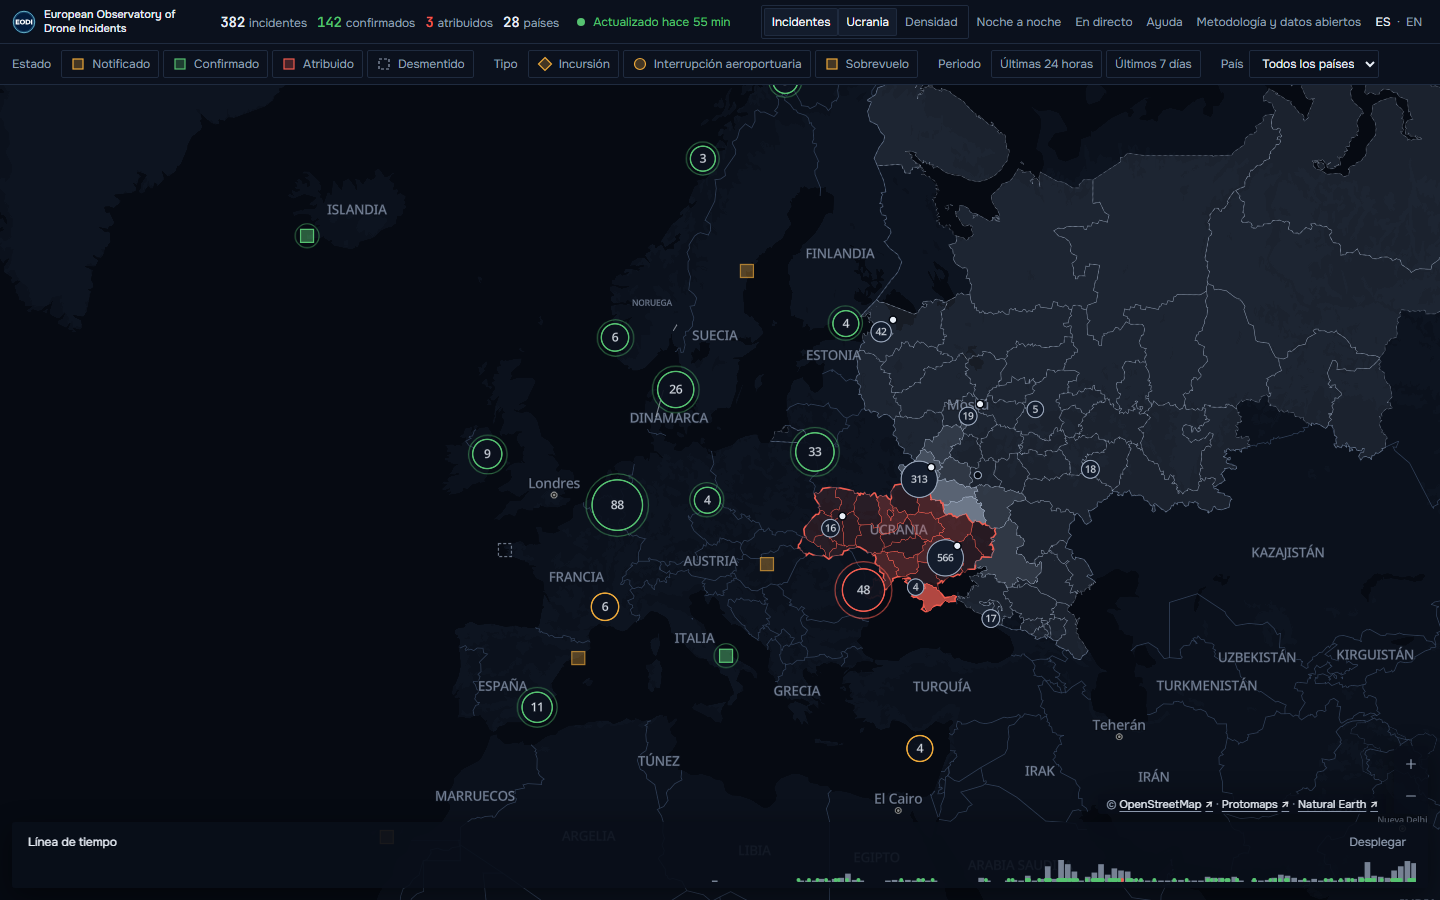
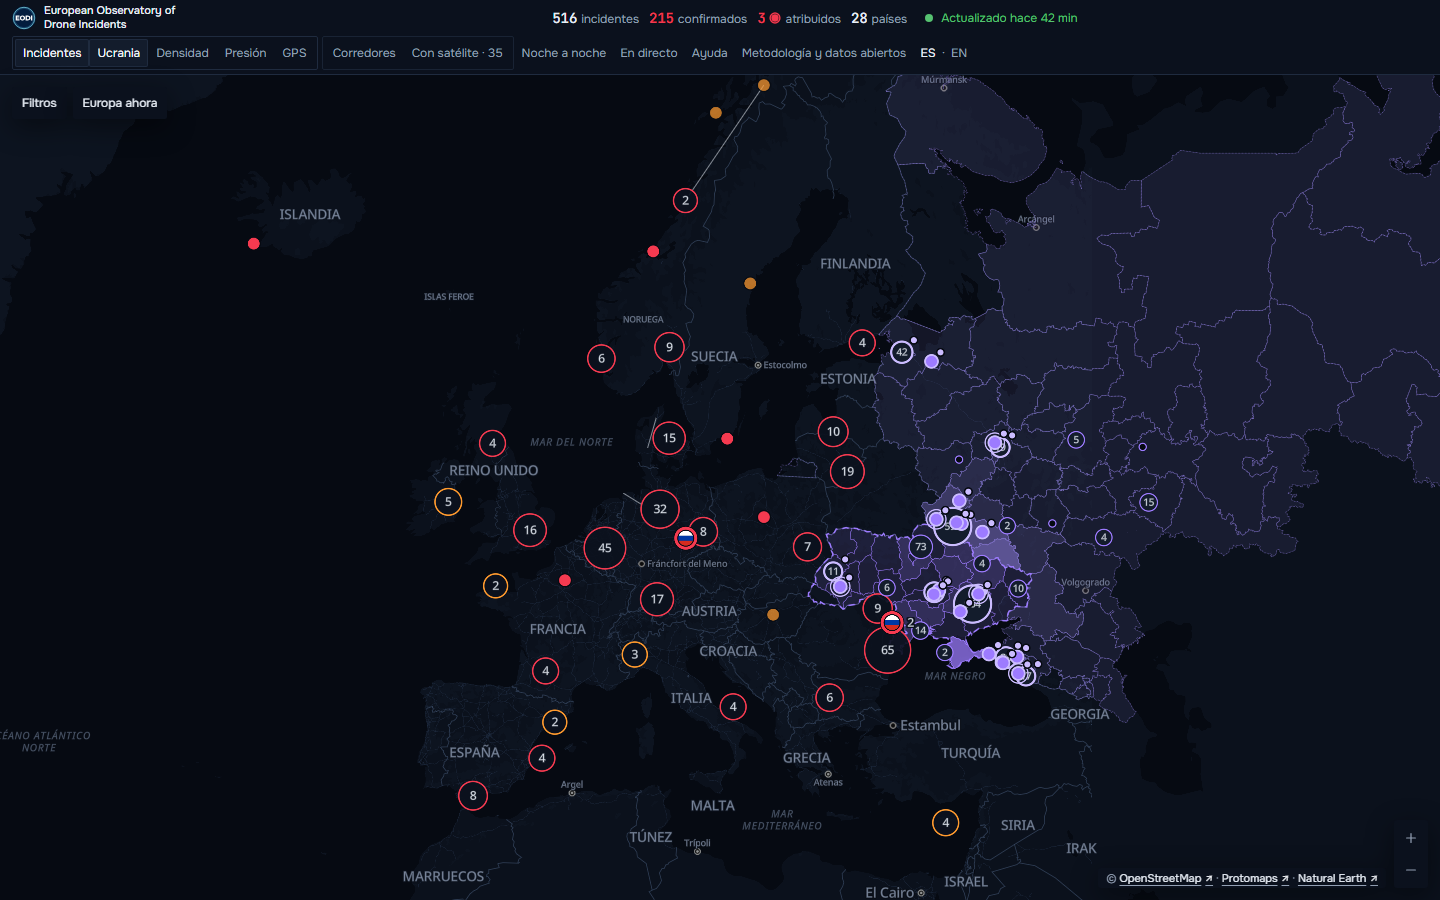
Informe final de guerra por satélite (#110)
Cierra docs/informe_guerra_satelite.md con lo medido el 4 de octubre: el servidor publica las
mismas 7 parejas con cambio que el ensayo, «Con satélite» tiene 36 puntos en producción (7 antes
y después, 18 focos, 3 apagones, 14 ciudades a oscuras), el consumo de las tres unidades con sus
topes nuevos, la comprobación en producción en escritorio y 390×844 y sus capturas. Las capturas
antiguas de la capa de guerra se rehacen en violeta y con las subcapas apagadas.

diff --git a/docs/informe_guerra_satelite.md b/docs/informe_guerra_satelite.md
@@ -107,6 +107,8 @@ imágenes iguales. Ahora una pareja solo se publica si en ella se ve el cambio:
 
 **Las 33 parejas.** Ensayo con el código final sobre los 33 objetivos (967 MB leídos). «Mancha principal» es la medida con la primera imagen posterior despejada; «Escenas revisadas», cuántas imágenes posteriores despejadas se midieron dentro de los 15 días. Pasan **7**: las cuatro en las que se veía el daño a simple vista con la primera imagen (00068, 02593, 02600, 03428) y tres en las que lo enseña una imagen posterior (02693, el 2 de junio; 03153, el 26 de marzo; 03412, el 18 de agosto, reencuadrada a 1,8 km). 25 quedan sin cambio y se retiran del almacén; 03486 sigue buscando hasta que se cierre su plazo.
 
+**En el servidor.** Las dos ejecuciones del 4 de octubre con este código (11:44 y 13:44 UTC) dan lo mismo que el ensayo: **7 parejas publicadas** (EODI-IG-2025-00068, 2025-02593, 2025-02600, 2025-02693, 2026-03153, 2026-03412 y 2026-03428), 28 sin cambio (las 25 de la tabla y tres objetivos nuevos, EODI-IG-2025-03155, 2025-03189 y 2026-04117) y 03486 buscando; 33 imágenes retiradas del almacén. Cada una de las siete, abierta en producción, enseña el cambio dentro del contorno: humo y quemado en Brahlov, el parque de tanques de Tuapsé, las quemaduras de Ivano-Frankivsk, Zёrnovo y Zelenograd, la mancha oscura de Pavlogrado y la franja quemada entre las pistas de Saki (reencuadrada a 1,8 km).
+
 | Impacto | Lugar | Primera imagen después | Mancha principal (ha) con ella | Daño visible a ojo | Escenas revisadas | Resultado |
 | --- | --- | --- | --- | --- | --- | --- |
 | EODI-IG-2025-00036 | Нікополь | 2025-04-20 | 0,32 | no | 9 | sin cambio |
@@ -318,6 +320,10 @@ emplazamientos del año y 11 de confianza baja; 225 publicados, 3 de ellos coinc
 impacto declarado. 10,8 kB, 2,3 s y 251 MB (la primera del día, con el resumen anual de
 emplazamientos, 9 s y 377 MB).
 
+Con solo los coincidentes (4 de octubre, 11:42 UTC): ninguno de los focos del día coincide
+con un impacto; el fichero ocupa 364 bytes. Los 18 impactos con foco de «Con satélite»
+vienen del cruce histórico.
+
 ## 5. Corredores de ataque
 
 [`web/src/datos/guerraSatelite.ts`](../web/src/datos/guerraSatelite.ts). Se calculan en la web
@@ -372,6 +378,7 @@ su realce y pulsando junto a él:
 | Escritorio: clic a unos 6 px del arco | 10 fichas de corredor y 12 listas de arcos superpuestos de 23 arcos localizados |
 | Escritorio: clic lejos de los arcos | ficha de la región |
 | Móvil 390×844, toque sobre el arco | 10 fichas de corredor y 9 listas de 23 arcos |
+| Producción, 360×800, 390×844 y 412×915, diez toques sobre arcos con Ucrania acercada | 10 de 10 fichas de corredor en los tres |
 
 A la escala de toda Europa, en un teléfono, los arcos que salen de la misma zona se solapan:
 ahí se abre la lista o el más cercano al dedo, que es lo que pide la regla.
@@ -409,11 +416,38 @@ recogida horaria, que ya tiene la base abierta, deja cada hora los objetivos en
 `datos/satelite/objetivos.json` (los impactos públicos con foco detectado o en una instalación,
 con su recorte y sus fechas) y `eodi-satelite` solo lee ese fichero.
 
-<!-- CON SATELITE -->
+**En producción** (4 de octubre, 14:15 UTC): «Con satélite · 36», 36 puntos distintos:
+
+| Tipo | Puntos |
+| --- | --- |
+| Antes y después con cambio | 7 |
+| Foco de calor que coincide con un impacto | 18 (6 de ellos también con antes y después) |
+| Apagón | 3: Odesa (13/12/2025), Kremenchuk (15/10/2025) y Rivne (17/08/2025; su ficha da también el del 02/12/2024, ataque EODI-UA-2024-0227) |
+| Ciudad a oscuras | 14 |
+
+Fichas abiertas desde la lista: **EODI-IG-2026-03428** (Tuapsé: cortinilla y foco arriba),
+**EODI-IG-2026-03412** (Saki: cortinilla) y **EODI-IG-2026-03427** (Krasnodar: solo el foco, su
+pareja no pasa).
 
 ## 7. Servidor
 
-<!-- SERVIDOR -->
+Tres unidades con su temporizador, su cerrojo y su tope de 1 GB de memoria, en prioridad baja
+(nice 15, E/S en reposo), fuera de los minutos 15 a 40 de la recogida horaria; ninguna toma el
+cerrojo de la recogida ni toca el clon. Consumo medido el 4 de octubre de 2026:
+
+| Unidad | Cuándo | Tope de tiempo | Medido |
+| --- | --- | --- | --- |
+| `eodi-satelite` | 06:43 y 18:43 UTC | no empieza un impacto nuevo pasados 26 minutos | 31 min, 60 MB de memoria, 629 MB leídos en 1777 peticiones (36 objetivos, la ejecución de las 11:44 con el código del cambio visible) |
+| `eodi-luces` | minuto 41 de cada hora | no empieza una noche nueva pasados 22 minutos | 24 min, 474 MB, unos 7,3 GB leídos (20 noches del histórico, 704 pendientes); la anterior, con 29 minutos, pasaba de los 32 minutos de la unidad una hora sí y otra no |
+| `eodi-focos-vivo` | minuto 42 de cada hora | — | 2,4 s y 235 MB; publica 364 bytes |
+
+- **Ajustes de hoy.** La luz nocturna pasa de 29 a 22 minutos (#103) y la búsqueda de imágenes
+  de 30 a 26 (#105): tras su último elemento quedan las ciudades con alumbrado reducido y la
+  subida, o el índice y las imágenes, y las dos terminan antes del minuto 12. Un test comprueba
+  los dos minutos de fin.
+- **Histórico de la luz nocturna.** Unas 20 a 28 noches por hora; con 704 pendientes, termina en
+  unas 30 horas y después solo mide las noches nuevas.
+- **Disco.** 11 GB usados de 75 GB.
 
 ## 8. Web
 
@@ -430,7 +464,8 @@ con su recorte y sus fechas) y `eodi-satelite` solo lee ese fichero.
   24 h»; aun así, `?satelite=luz` y `?satelite=focos` abren «Con satélite» con el filtro de apagones
   y ciudades a oscuras o el de focos. Abrir algo de una subcapa (un corredor, un apagón, una
   ciudad a oscuras) desde una lista o una ficha la enciende, y la línea de focos de «Europa ahora»
-  abre «Con satélite» filtrado por focos.
+  abre «Con satélite» filtrado por focos, sin cambiar el periodo. El enlace se lee de la dirección
+  del navegador al cargar, antes de que la web reescriba la dirección con sus capas (#103).
 - **Las demás capas.** Revisadas Incidentes, Densidad, Presión, GPS y los cierres en directo.
   Encendía algo sola **Presión**: con el periodo en «Todo», al encenderla cambiaba el periodo a los
   últimos 30 días (de #87). Ya no lo hace: la presión se enciende y el periodo sigue el que había.
@@ -441,7 +476,7 @@ con su recorte y sus fechas) y `eodi-satelite` solo lee ese fichero.
 - Metodología (ES y EN): apartado «Guerra por satélite» y las atribuciones de Copernicus
   Sentinel y de NOAA. Ayuda del mapa: las tres marcas nuevas.
 - Comprobado en escritorio y en 360×800, 390×844 y 412×915, en local, en la vista previa del
-  PR y en producción (apartado 9).
+  PR y en producción (apartado 10).
 
 ## 9. Color de la capa de guerra
 
@@ -481,4 +516,47 @@ familia a ΔE 30 o más de los tres estados, el principal a ΔE 75 o más del ro
 deuteranopía y protanopía, contraste 4,5:1 sobre el fondo, y que ninguna capa de la guerra use un
 color de estado.
 
-<!-- PRODUCCION -->
+## 10. Comprobación en producción
+
+4 de octubre de 2026, droneobservatory.eu con #103 y #105, en escritorio (1440×900) y en
+390×844, con un script de Playwright en un navegador real:
+
+| Comprobación | Escritorio | 390×844 |
+| --- | --- | --- |
+| Con Ucrania, solo dos botones de guerra («Corredores» y «Con satélite · 36»), los dos apagados; ni «Focos 24 h» ni «Luz nocturna» | sí | sí |
+| Cada subcapa se enciende y se apaga con su botón | sí | sí |
+| Apagar y encender Ucrania con las dos encendidas: vuelven apagadas | sí | sí |
+| `?guerra=corredores`: Ucrania y Corredores encendidos | sí | sí |
+| `?guerra=corredores,satelite&satelite=foco`, `?satelite=luz`, `?satelite=focos24h`: «Con satélite» con su filtro | sí | sí |
+| Leyenda de los cuatro tipos y filtro con su número (7, 18, 3, 14) | sí | sí |
+| Las 7 fichas con cortinilla: dos imágenes cargadas, contorno y «Zona con cambios» | 7 de 7 | 7 de 7 |
+| Las 18 fichas con foco: foco arriba; sin pareja, sin cortinilla (03427, 00036, 02759 entre ellas) | 18 de 18 | 18 de 18 |
+| Apagones (Odesa, Kremenchuk, Rivne) y dos ciudades a oscuras (Mykolaiv, Sumy): luz arriba | 5 de 5 | 5 de 5 |
+| «Europa ahora» → focos: «Con satélite» filtrado por focos, 18 filas | sí | sí |
+| Corredores: diez toques en 360, 390 y 412 | — | 10 de 10 |
+| Errores de la página | ninguno | ninguno |
+
+### Capturas
+
+En [`capturas/`](capturas/), cada una en `-escritorio.png` y `-390x844.png`:
+
+- Subcapas: `subcapas-inicial` (Ucrania encendida, subcapas apagadas), `subcapas-corredores`,
+  `subcapas-satelite`, `subcapas-satelite-lista` y `subcapas-enlace-corredores`.
+- Cortinilla con su contorno: `satelite-cortinilla-<impacto>` de las siete parejas, y
+  `satelite-filtro-antes-despues` (la lista filtrada).
+- Fichas sin pareja publicada: `satelite-sin-pareja-EODI-IG-2026-03427`, `-2025-00036` y
+  `-2025-02759` (solo el foco).
+- «Con satélite»: `satelite-foco-EODI-IG-2026-03428`, `satelite-apagon-odesa`,
+  `satelite-apagon-rivne`, `satelite-ciudad-a-oscuras-mykolaiv` y `satelite-europa-ahora-focos`.
+- Corredores: `corredores-toque-360x800`, `-390x844` y `-412x915`.
+- La capa de guerra en violeta con las subcapas apagadas: `guerra-ucrania`, `guerra-ver-todo`,
+  `guerra-rusia`, `guerra-ficha-impacto`, `guerra-ficha-region-rusa` y las de
+  [`informe_capa_guerra.md`](informe_capa_guerra.md), rehechas.
+
+## 11. Pull requests
+
+#65 (guerra por satélite y color violeta), #89 (ciudades con alumbrado reducido, corredores
+fáciles de seleccionar, puntos con satélite), #93 (toque en el teléfono), #98 (cortinilla solo con
+cambio visible, «Con satélite» con cuatro tipos, botones retirados, subcapas apagadas), #103
+(enlace con subcapas, tope de la luz nocturna, tabla de las parejas), #105 (tope de la búsqueda de
+imágenes) y #110 (este informe).
